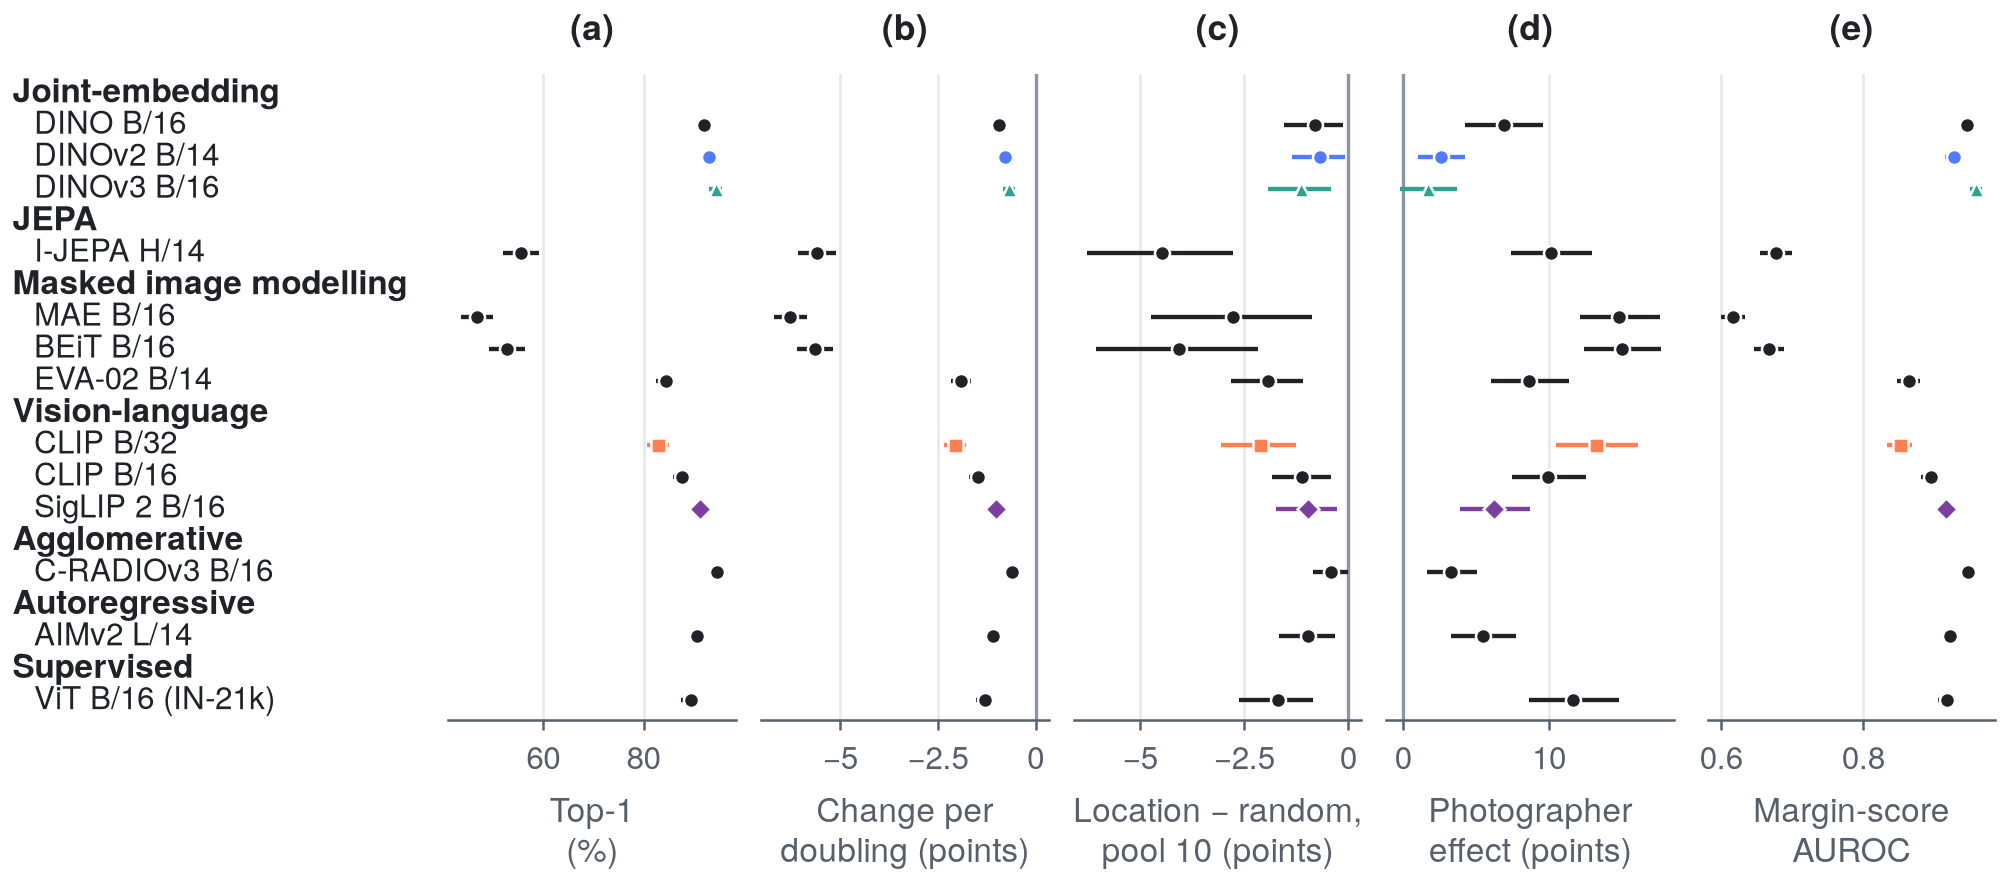
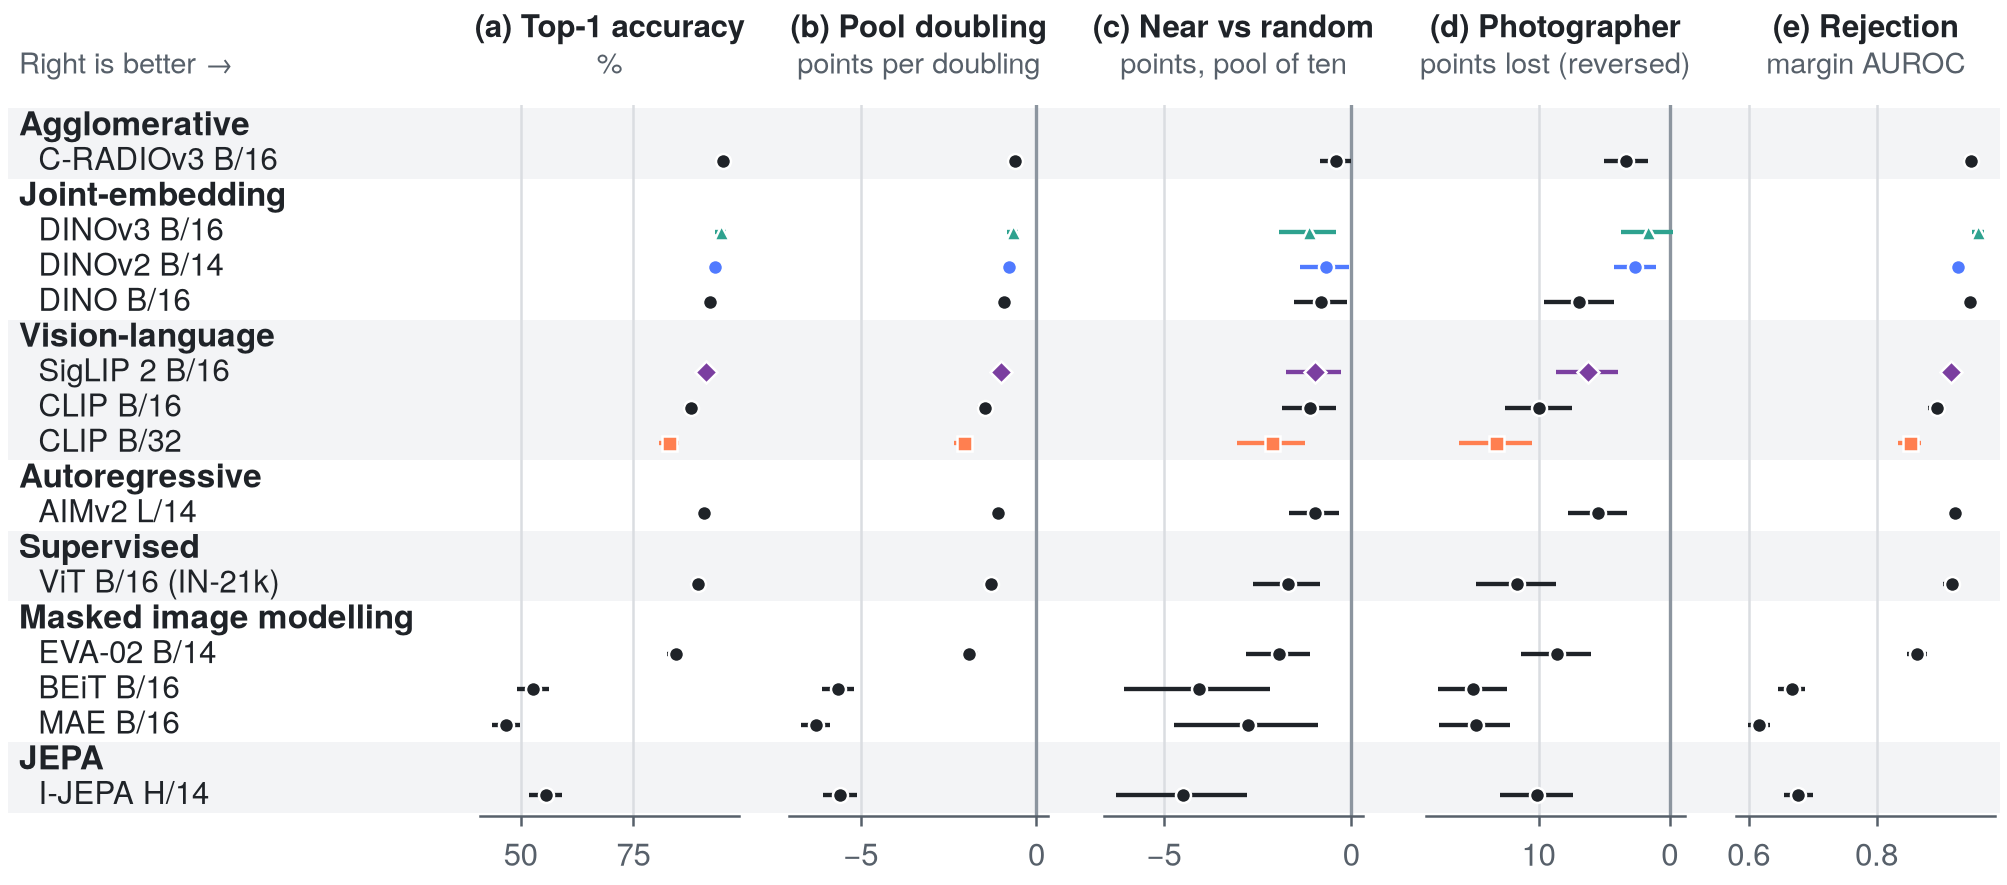
Redesign the backbone-comparison figure to read without its caption
Each panel is titled above its plot, right is better in every panel
(the photographer effect is drawn on a reversed axis), paradigms are
ordered by their best top-1, and a light band behind every other
paradigm carries the eye across the five panels. The data is unchanged.

Claude-Session: https://claude.ai/code/session_01DeUKxRyMqr63ZbUEasCzMQ

diff --git a/docs/index.html b/docs/index.html
@@ -119,7 +119,7 @@
             <h3 class="title is-4">Invariance-trained checkpoints lead this comparison</h3>
             <p>Across thirteen frozen backbones in seven pretraining paradigms, models trained for invariant embeddings lead, with C-RADIOv3 reaching 94.7% top-1. Masked-prediction models MAE, BEiT and I-JEPA fail as frozen retrieval features under the fixed pooling rule, reaching only 47–56%. Training data, model size and preprocessing also differ, so this comparison does not isolate the pretraining objective.</p>
           </div>
-          <figure class="wide-result-figure"><div class="figure-scroll" tabindex="0" role="region" aria-label="Scrollable backbone comparison figure"><a class="figure-link" href="figures/paper-family.png" aria-label="Open the backbone-family figure at full resolution"><img src="figures/paper-family.png" width="2007" height="885" loading="lazy" alt="Thirteen frozen backbones grouped by seven pretraining paradigms, compared on retrieval, new-photographer queries and unknown-statue rejection."></a></div><figcaption><span class="figure-scroll-hint">Swipe or scroll sideways to read each panel.</span> <strong>(a)</strong> Top-1 over all 306 statues. <strong>(b)</strong> Accuracy change per doubling of the pool. <strong>(c)</strong> Geographic minus random top-1 at a pool of ten. <strong>(d)</strong> Accuracy lost to the photographer beyond the size-matched control. <strong>(e)</strong> Rejection AUROC of the margin score. Bars are 95% intervals from resampling whole statues. <a class="figure-enlarge" href="figures/paper-family.png">Open full-size figure ↗</a></figcaption></figure>
+          <figure class="wide-result-figure"><div class="figure-scroll" tabindex="0" role="region" aria-label="Scrollable backbone comparison figure"><a class="figure-link" href="figures/paper-family.png" aria-label="Open the backbone-family figure at full resolution"><img src="figures/paper-family.png" width="2007" height="885" loading="lazy" alt="Thirteen frozen backbones grouped by seven pretraining paradigms and ordered by top-1 accuracy, compared in five panels where right is better: top-1 accuracy, change per pool doubling, location against random narrowing, accuracy lost to the photographer, and unknown-statue rejection. Agglomerative and joint-embedding models sit on the right throughout; MAE, BEiT and I-JEPA sit far to the left."></a></div><figcaption><span class="figure-scroll-hint">Swipe or scroll sideways to read each panel.</span> Paradigms are ordered by their best top-1, and right is better in every panel. <strong>(a)</strong> Top-1 over all 306 statues. <strong>(b)</strong> Top-1 change per doubling of the pool. <strong>(c)</strong> Geographic minus random top-1 at a pool of ten. <strong>(d)</strong> Top-1 lost to the photographer beyond the size-matched control, on a reversed axis. <strong>(e)</strong> Rejection AUROC of the margin score. Bars are 95% intervals from resampling whole statues. <a class="figure-enlarge" href="figures/paper-family.png">Open full-size figure ↗</a></figcaption></figure>
         </article>
         <article class="card result-card">
           <div class="card-content">

diff --git a/src/krasnal_id/viz/family_plot.py b/src/krasnal_id/viz/family_plot.py
@@ -8,6 +8,13 @@ interval is the statue-level bootstrap the validation artifact carries.
 Rows are labelled directly, so colour carries no identity here. The four backbones
 the rest of the paper draws keep their own colours, because colour follows the
 entity (``figure_style``); the nine that appear only in this figure wear ink.
+
+The figure is built to be read without its caption. Every panel is titled above
+its plot and **right is better in every panel**: the one measure where a smaller
+number is better is drawn on a reversed axis. Paradigms are ordered by their best
+top-1, best first, and a light band behind every other paradigm carries the eye
+across the five panels, so the reader sees which kinds of pretraining sit on the
+right throughout and which on the left.
 """
 
 from collections.abc import Mapping, Sequence
@@ -68,20 +75,29 @@ MODEL_DETAILS: dict[str, tuple[str, str, int, str]] = {
 
 @dataclass(frozen=True, slots=True)
 class Panel:
-    """One measurement: the metric suffix, its axis label, and how to scale it."""
+    """One measurement: the metric suffix, its title and unit, and how to draw it."""
 
     suffix: str
-    label: str
+    title: str
+    unit: str
     scale: float = 100.0
     zero_line: bool = False
+    # A measure where smaller is better is drawn right to left, so right is always better.
+    reverse: bool = False
 
 
 PANELS: tuple[Panel, ...] = (
-    Panel("top_1", "Top-1\n(%)"),
-    Panel("points_per_doubling", "Change per\ndoubling (points)", scale=1.0, zero_line=True),
-    Panel("geo_minus_random_pool_10", "Location \u2212 random,\npool 10 (points)", zero_line=True),
-    Panel("photographer_attributable", "Photographer\neffect (points)", zero_line=True),
-    Panel("reject_margin_auroc", "Margin-score\nAUROC", scale=1.0),
+    Panel("top_1", "Top-1 accuracy", "%"),
+    Panel("points_per_doubling", "Pool doubling", "points per doubling", scale=1.0, zero_line=True),
+    Panel("geo_minus_random_pool_10", "Near vs random", "points, pool of ten", zero_line=True),
+    Panel(
+        "photographer_attributable",
+        "Photographer",
+        "points lost (reversed)",
+        zero_line=True,
+        reverse=True,
+    ),
+    Panel("reject_margin_auroc", "Rejection", "margin AUROC", scale=1.0),
 )
 
 
@@ -117,13 +133,34 @@ def collect(
     return found
 
 
-def rows() -> list[tuple[str | None, str | None]]:
+def rows(
+    families: Sequence[tuple[str, Sequence[str]]] = FAMILIES,
+) -> list[tuple[str | None, str | None]]:
     """The plotted rows top to bottom: a family heading, then its models."""
     laid_out: list[tuple[str | None, str | None]] = []
-    for family, models in FAMILIES:
+    for family, models in families:
         laid_out.append((family, None))
         laid_out.extend((None, model) for model in models)
     return laid_out
+
+
+def by_accuracy(
+    estimates: Mapping[tuple[str, str], Estimate],
+    families: Sequence[tuple[str, Sequence[str]]] = FAMILIES,
+) -> list[tuple[str, tuple[str, ...]]]:
+    """Paradigms by their best top-1, best first, and their models the same way.
+
+    Ties keep the order the paper discusses them in, so the layout is a function of
+    the artifact alone.
+    """
+
+    def top_1(model: str) -> float:
+        return estimates[(model, "top_1")].value
+
+    ordered = [
+        (family, tuple(sorted(models, key=lambda m: -top_1(m)))) for family, models in families
+    ]
+    return sorted(ordered, key=lambda item: -top_1(item[1][0]))
 
 
 def render_family_figure(
@@ -137,10 +174,13 @@ def render_family_figure(
     matplotlib.use("Agg")
     plt = import_optional_analysis("matplotlib.pyplot")
     ticker = import_optional_analysis("matplotlib.ticker")
+    patches = import_optional_analysis("matplotlib.patches")
+    transforms = import_optional_analysis("matplotlib.transforms")
     style.apply(plt)
-    laid_out = rows()
-    models = [model for _, model in laid_out if model is not None]
-    estimates = collect(metrics, models)
+    every_model = [model for _, members in FAMILIES for model in members]
+    estimates = collect(metrics, every_model)
+    families = by_accuracy(estimates)
+    laid_out = rows(families)
     height = 0.125 * len(laid_out) + 0.45
     label_share = 0.20
     figure = plt.figure(figsize=(width, height), layout="constrained")
@@ -157,7 +197,7 @@ def render_family_figure(
     for row, (family, model) in zip(y, laid_out, strict=True):
         if family is not None:
             labels.text(
-                0,
+                0.02,
                 row,
                 family,
                 fontsize=style.SIZE_LABEL,
@@ -169,7 +209,7 @@ def render_family_figure(
         else:
             assert model is not None
             labels.text(
-                0.06,
+                0.08,
                 row,
                 MODEL_LABEL[model],
                 fontsize=style.SIZE_TICK,
@@ -177,14 +217,43 @@ def render_family_figure(
                 va="center",
                 ha="left",
             )
+    # A band behind every other paradigm, across the labels and all five panels.
+    across = transforms.blended_transform_factory(figure.transFigure, labels.transData)
+    top = len(laid_out) - 0.5
+    for index, (_, members) in enumerate(families):
+        bottom = top - (len(members) + 1)
+        if index % 2 == 0:
+            figure.add_artist(
+                patches.Rectangle(
+                    (0.004, bottom),
+                    0.992,
+                    top - bottom,
+                    transform=across,
+                    facecolor=style.BAND,
+                    edgecolor="none",
+                    zorder=0,
+                )
+            )
+        top = bottom
+    labels.text(
+        0.02,
+        1.035,
+        "Right is better \N{RIGHTWARDS ARROW}",
+        transform=labels.transAxes,
+        fontsize=style.SIZE_ANNOTATION,
+        color=style.INK_SECONDARY,
+        va="bottom",
+        ha="left",
+    )
     for column, panel in enumerate(PANELS, start=1):
         axes = figure.add_subplot(grid[0, column], sharey=labels)
+        axes.set_facecolor("none")
         axes.set_ylim(-0.6, len(laid_out) - 0.4)
         axes.tick_params(left=False, labelleft=False)
         for side in ("left", "right", "top"):
             axes.spines[side].set_visible(False)
         axes.grid(False)
-        axes.grid(axis="x", color=style.GRID, linewidth=style.AXIS_LINE_WIDTH)
+        axes.grid(axis="x", color=style.GRID_ON_BAND, linewidth=style.AXIS_LINE_WIDTH)
         axes.set_axisbelow(True)
         if panel.zero_line:
             axes.axvline(0, color=style.INK_MUTED, linewidth=style.REFERENCE_LINE_WIDTH)
@@ -212,9 +281,31 @@ def render_family_figure(
                 markeredgewidth=0.6,
                 linestyle="none",
             )
-        axes.set_xlabel(panel.label, fontsize=style.SIZE_LABEL, color=style.INK_SECONDARY)
+        if panel.reverse:
+            axes.invert_xaxis()
         axes.xaxis.set_major_formatter(ticker.FuncFormatter(lambda v, _: style.minus(f"{v:g}")))
-        style.panel_tag(axes, "abcdefgh"[column - 1], centred=True)
+        letter = "abcdefgh"[column - 1]
+        axes.text(
+            0.5,
+            1.085,
+            f"({letter}) {panel.title}",
+            transform=axes.transAxes,
+            fontsize=style.SIZE_TICK,
+            fontweight="bold",
+            color=style.INK,
+            va="bottom",
+            ha="center",
+        )
+        axes.text(
+            0.5,
+            1.035,
+            panel.unit,
+            transform=axes.transAxes,
+            fontsize=style.SIZE_ANNOTATION,
+            color=style.INK_SECONDARY,
+            va="bottom",
+            ha="center",
+        )
     written = style.save(figure, path, dpi)
     plt.close(figure)
     return written

diff --git a/tests/test_family_plot.py b/tests/test_family_plot.py
@@ -6,7 +6,15 @@ import pytest
 
 from krasnal_id.config import backbone_config
 from krasnal_id.viz.embedding_plot import VisualizationError
-from krasnal_id.viz.family_plot import FAMILIES, MODEL_LABEL, PANELS, collect, rows
+from krasnal_id.viz.family_plot import (
+    FAMILIES,
+    MODEL_LABEL,
+    PANELS,
+    Estimate,
+    by_accuracy,
+    collect,
+    rows,
+)
 
 
 def test_every_model_is_a_packaged_backbone_in_exactly_one_family() -> None:
@@ -21,6 +29,23 @@ def test_rows_put_each_heading_above_its_members() -> None:
     assert laid_out[0] == ("Joint-embedding", None)
     assert laid_out[1:4] == [(None, "dino"), (None, "dinov2"), (None, "dinov3")]
     assert sum(family is not None for family, _ in laid_out) == len(FAMILIES)
+
+
+def test_paradigms_and_their_models_are_ordered_by_top_1_best_first() -> None:
+    scores = {"a": 80.0, "b": 95.0, "c": 90.0, "d": 90.0}
+    estimates = {(model, "top_1"): Estimate(value, None, None) for model, value in scores.items()}
+    families = (("First", ("a", "b")), ("Second", ("c",)), ("Third", ("d",)))
+    ordered = by_accuracy(estimates, families)
+    # The best model leads its paradigm, the best paradigm leads the figure, and a tie
+    # keeps the order the paradigms were given in.
+    assert ordered == [("First", ("b", "a")), ("Second", ("c",)), ("Third", ("d",))]
+    assert rows(ordered)[:3] == [("First", None), (None, "b"), (None, "a")]
+
+
+def test_right_is_better_in_every_panel() -> None:
+    # Only the photographer effect is better when smaller, so only it is reversed.
+    assert [panel.suffix for panel in PANELS if panel.reverse] == ["photographer_attributable"]
+    assert all(panel.title and panel.unit for panel in PANELS)
 
 
 def test_a_missing_estimate_is_refused_and_present_ones_are_scaled() -> None:

diff --git a/src/krasnal_id/viz/figure_style.py b/src/krasnal_id/viz/figure_style.py
@@ -47,6 +47,8 @@ INK = "#1F2328"  # titles, values, direct labels
 INK_SECONDARY = "#57606A"  # axis labels, annotations
 INK_MUTED = "#8C959F"  # reference lines, "wrong" frames
 GRID = "#E6E8EB"
+BAND = "#F3F4F6"  # a row band behind every other group, lighter than the grid
+GRID_ON_BAND = "#DADDE1"  # the grid where it must stay visible across a band
 NEUTRAL_FILL = "#C9D1D9"  # data that is not an entity: corpus statistics, statues on a map
 
 # --- entities ---------------------------------------------------------------

diff --git a/AGENTS.md b/AGENTS.md
@@ -2856,15 +2856,30 @@ are such installations. Found by looking at the source photographs, not from any
 **describe a class as "a statue or fixed installation", never as one physical object**, and
 check what a figure's photographs show before a caption calls two of them the same statue.
 
-### 11.7 Panel letters on the backbone figure (2026-11-19)
+### 11.7 The backbone figure reads without its caption (2026-11-19)
 
-The thirteen-backbone forest plot's panels have no y-axis of their own, so the shared top-left
-panel tag (§7.14) hung over the gap between two panels and read as belonging to neither.
-`style.panel_tag(..., centred=True)` now sets the letter over the middle of each of those
-panels; every other figure keeps the top-left tag. The figure was regenerated with `visualize
-family` and re-copied to `docs/figures/paper-family.png` (§6.7); the generated numbers and the
-supplement's curves came out byte-identical. With the gap no longer reserved for the letters the
-panels are slightly wider, so the automatic tick positions changed; the data did not.
+The thirteen-backbone forest plot was redesigned at the author's request so its point is
+visible at a glance. The data and every generated number are unchanged.
+
+- **Its panel letters had sat over the gaps between panels.** The panels have no y-axis of
+  their own, so §7.14's top-left tag hung in the gap and read as belonging to neither
+  neighbour. Each panel now carries a title above its plot, "(a) Top-1 accuracy" with the unit
+  beneath, in place of a bare letter and an axis label at the bottom.
+  `style.panel_tag(..., centred=True)` exists for a panel with no y-axis; every other figure
+  keeps the top-left tag.
+- **Right is better in every panel**, and the figure says so. The photographer effect is the
+  one measure where smaller is better, so its axis is reversed and its unit line says
+  "reversed". A reader no longer has to work out each panel's good direction.
+- **Paradigms are ordered by their best top-1, best first**, and models within a paradigm the
+  same way, with ties keeping the paper's order (`by_accuracy`). The supplement's tables keep
+  `FAMILIES`' order, the one the text discusses them in.
+- **A light band behind every other paradigm** runs across the labels and all five panels, so
+  a row can be followed from its name to its fifth dot. `BAND` is lighter than the grid, and
+  the grid is drawn in `GRID_ON_BAND` so it stays visible across a band.
+- A title drawn with `axes.text` counts toward constrained layout: titles wider than a panel
+  silently shrank every plot to a third of its cell. Keep each title within its panel's width
+  and look at the render.
+- Regenerated with `visualize family` and re-copied to `docs/figures/paper-family.png` (§6.7).
 
 ## 12. Living documentation and handoffs
 - Treat this file as the authoritative project brief and decision record. Update it in the same change whenever implementation work introduces or changes architecture, scope, schemas, conventions, build order, or other decisions that future contributors must follow.

diff --git a/CHANGELOG.md b/CHANGELOG.md
@@ -29,8 +29,11 @@ rather than a build-order stage, so `0.4.0` is open-set rejection.
 
 ### Fixed
 
-- The backbone-comparison figure's panel letters sat over the gaps between panels. They are now
-  centred above each panel, in the paper's figure and its copy on the project page.
+- The backbone-comparison figure is redesigned to be read without its caption, in the paper and
+  on the project page: each panel is titled above its plot (the letters had sat over the gaps
+  between panels), right is better in every panel with the photographer effect on a reversed
+  axis, paradigms are ordered by their best top-1, and a light band behind every other paradigm
+  carries the eye across the panels. The data is unchanged.
 - The project page's teaser described three groups of pillar dwarves as single statues. Its
   caption and image description now say each is a group of several figures, and that the
   winning photograph shows a different figure of the query's own group.
